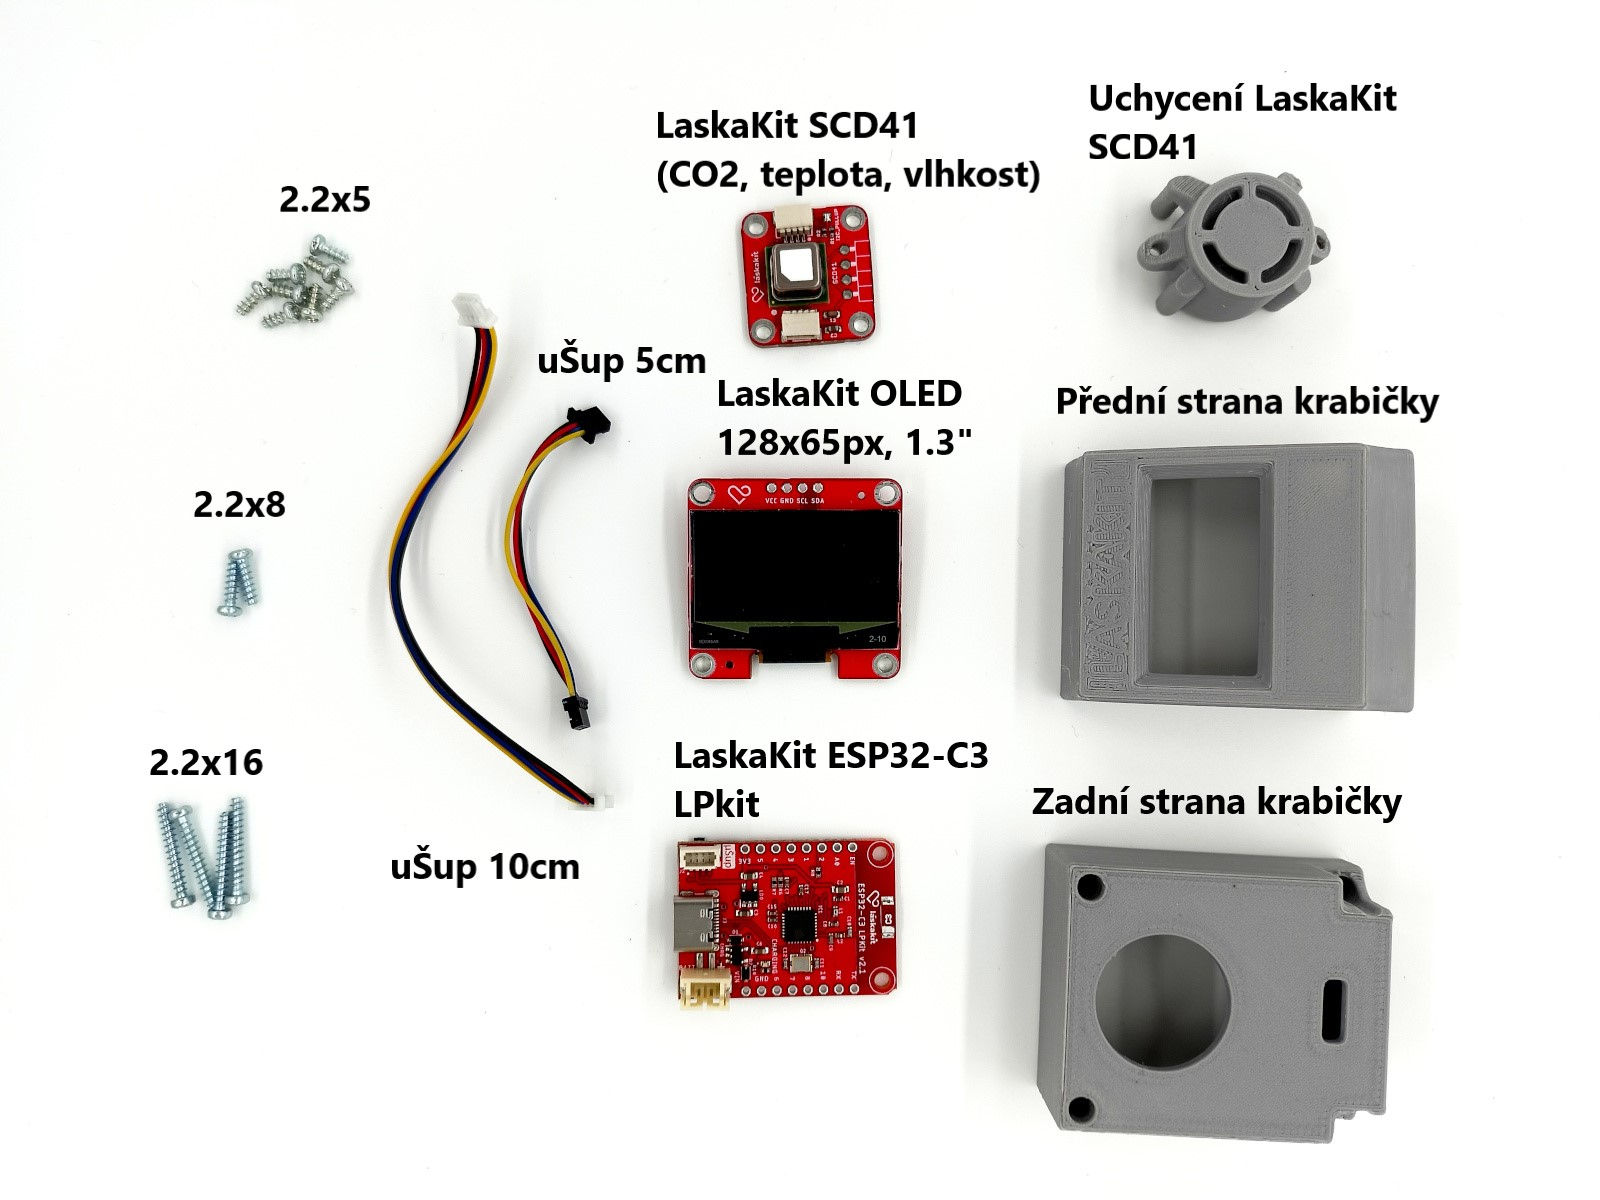
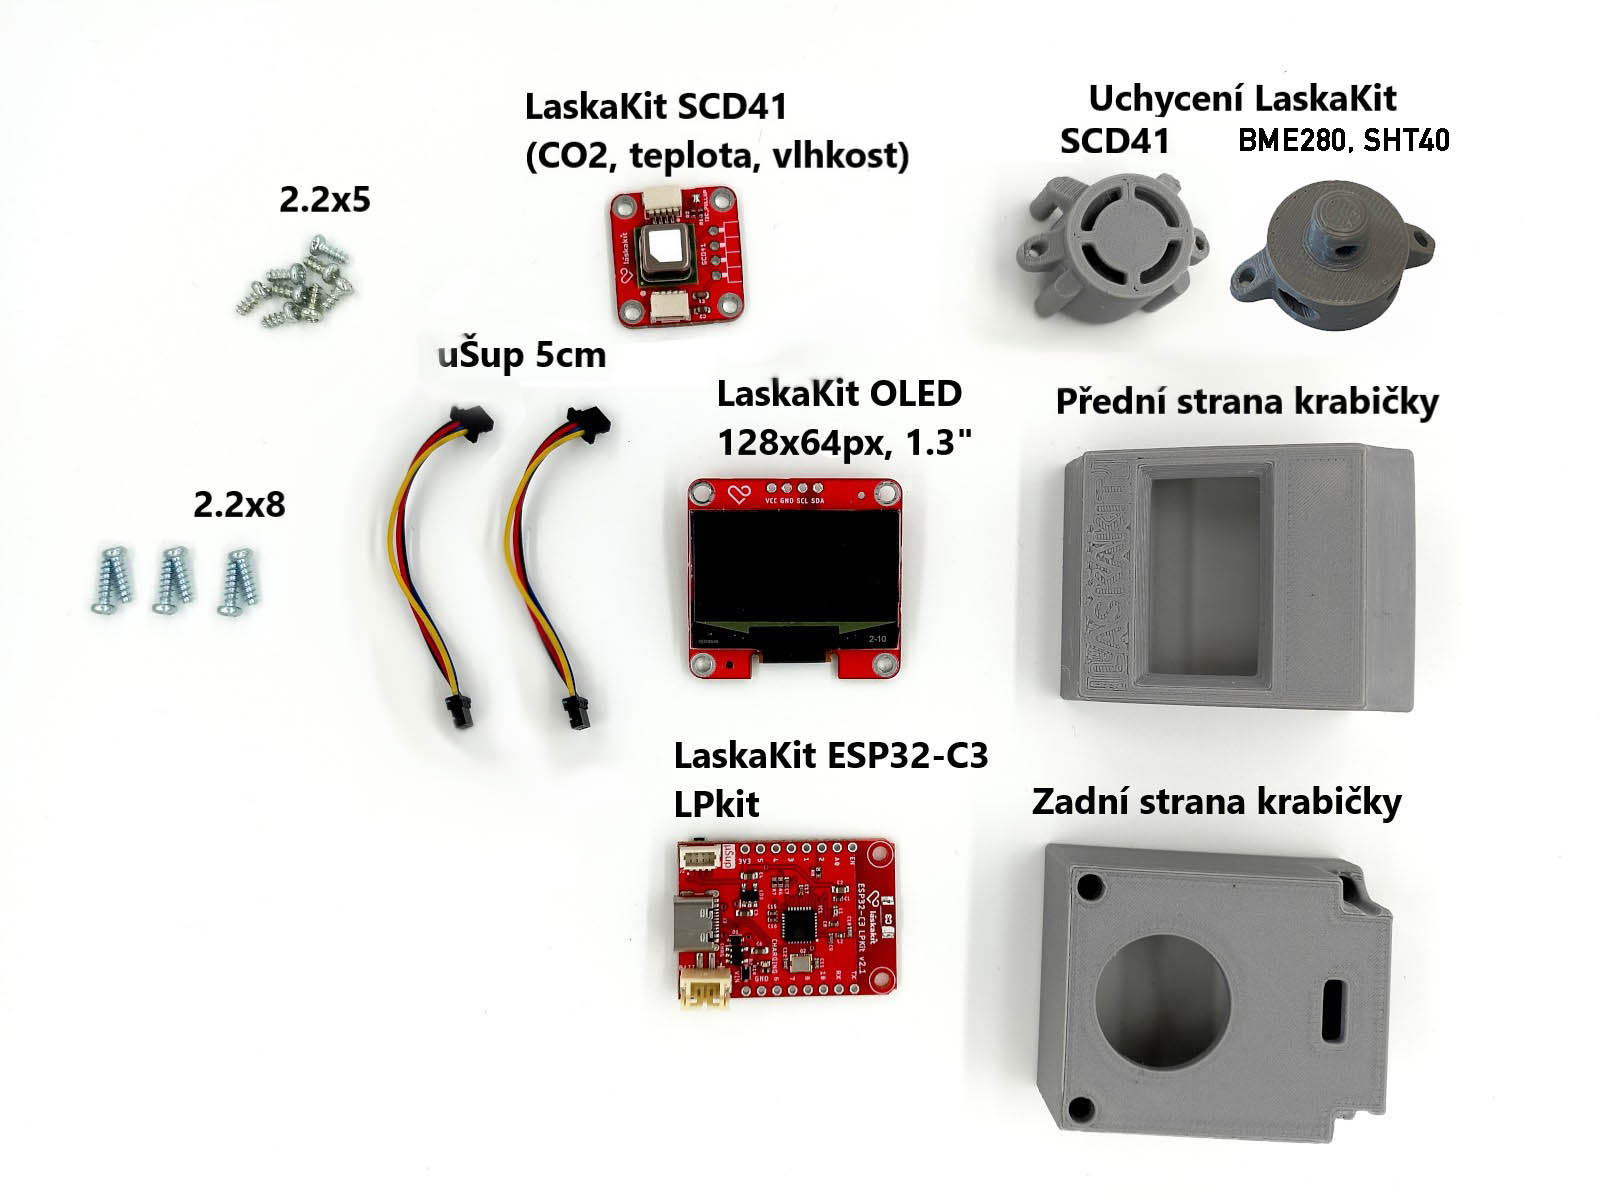
update to latest

diff --git a/README_CZ.md b/README_CZ.md
@@ -20,9 +20,8 @@ Základem jsou je LaskaKit ESP32-C3 OLED kit, který obsahuje:</br>
 1x  [LaskaKit OLED displej 128x64 1.3" I²C](https://www.laskakit.cz/laskakit-oled-displej-128x64-1-3--i2c/?variantId=11903) </br>
 1x  [μŠup, STEMMA QT, Qwiic JST-SH 4-pin kabel - 5cm](https://www.laskakit.cz/--sup--stemma-qt--qwiic-jst-sh-4-pin-kabel-5cm/) </br>
 1x  [μŠup, STEMMA QT, Qwiic JST-SH 4-pin kabel - 10cm](https://www.laskakit.cz/--sup--stemma-qt--qwiic-jst-sh-4-pin-kabel-10cm/) </br>
-8x [Šroub do plastu s půlkulatou hlavou a kříž. drážkou 2,2x5](https://www.laskakit.cz/sroub-do-termoplastu-s-cockovou-hlavou-a-krizovou-drazkou-2-2x5-bn-82428-ocel/)</br>
-2x [Šroub do plastu s půlkulatou hlavou a kříž. drážkou 2,2x8](https://www.laskakit.cz/sroub-do-plastu-s-pulkulatou-hlavou-a-kriz--drazkou-2-2x8-bn-82428-zb/)</br>
-4x [Šroub do plastu s půlkulatou hlavou a kříž. drážkou 2,2x16](https://www.laskakit.cz/sroub-do-termoplastu-s-cockovou-hlavou-a-krizovou-drazkou-2-2x16-bn-82428-ocel/)</br>
+10x [Šroub do plastu s půlkulatou hlavou a kříž. drážkou 2,2x5](https://www.laskakit.cz/sroub-do-termoplastu-s-cockovou-hlavou-a-krizovou-drazkou-2-2x5-bn-82428-ocel/)</br>
+6x [Šroub do plastu s půlkulatou hlavou a kříž. drážkou 2,2x8](https://www.laskakit.cz/sroub-do-plastu-s-pulkulatou-hlavou-a-kriz--drazkou-2-2x8-bn-82428-zb/)</br>
 1x Krabička pro čidlo SCD41 (CO2, teplota, vlhkost) nebo BME280 (tlak, teplota, vlhkost) / SHT41 (teplota a vlhkost).</br>
 
 ## Programování
